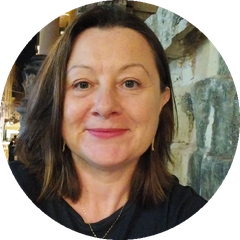
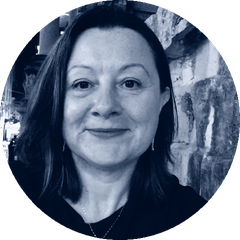
Navy monochrome portrait style for Associates team photos

diff --git a/tools/portrait.py b/tools/portrait.py
@@ -1,0 +1,48 @@
+"""FoundKeys Associates portrait style: navy-blue monochrome, round, 240x240 PNG.
+
+Usage: python3 -I tools/portrait.py <source image> <output.png>
+"""
+import sys
+import numpy as np
+from PIL import Image, ImageDraw, ImageOps
+
+# Colour ramp: output luminance -> navy tint (measured from the approved Hayley example).
+RAMP = [  # (level, R, G, B)
+    (0, 0, 11, 32), (16, 1, 15, 38), (32, 10, 27, 52), (48, 26, 44, 70), (64, 41, 59, 86),
+    (80, 57, 75, 101), (96, 74, 91, 117), (112, 91, 107, 133), (128, 107, 122, 147),
+    (144, 124, 138, 162), (160, 141, 154, 177), (176, 158, 170, 191), (192, 174, 185, 205),
+    (208, 190, 200, 218), (224, 210, 218, 233), (240, 230, 236, 246), (255, 246, 248, 252),
+]
+GAMMA = 1.35      # deepens the mid-tones like the example
+CLIP = 0.5        # % of darkest/lightest pixels clipped when stretching contrast
+
+
+def navy(im):
+    g = ImageOps.autocontrast(im.convert("L"), cutoff=CLIP)
+    x = np.arange(256) / 255.0
+    tone = np.clip((x ** GAMMA) * 255.0, 0, 255)
+    lv = [r[0] for r in RAMP]
+    lut = [np.interp(tone, lv, [r[c] for r in RAMP]) for c in (1, 2, 3)]
+    a = np.asarray(g)
+    rgb = np.stack([lut[c][a] for c in range(3)], axis=-1).round().astype("uint8")
+    return Image.fromarray(rgb, "RGB")
+
+
+def make(src, out):
+    im = ImageOps.exif_transpose(Image.open(src)).convert("RGB")
+    w, h = im.size
+    s = min(w, h)
+    l, t = (w - s) // 2, (h - s) // 2
+    if h > w:
+        t = max(0, t - int(0.05 * s))
+    im = im.crop((l, t, l + s, t + s)).resize((480, 480), Image.LANCZOS)
+    im = navy(im)
+    m = Image.new("L", (480, 480), 0)
+    ImageDraw.Draw(m).ellipse((0, 0, 479, 479), fill=255)
+    o = Image.new("RGBA", (480, 480), (0, 0, 0, 0))
+    o.paste(im, (0, 0), m)
+    o.resize((240, 240), Image.LANCZOS).save(out)
+
+
+if __name__ == "__main__":
+    make(sys.argv[1], sys.argv[2])
